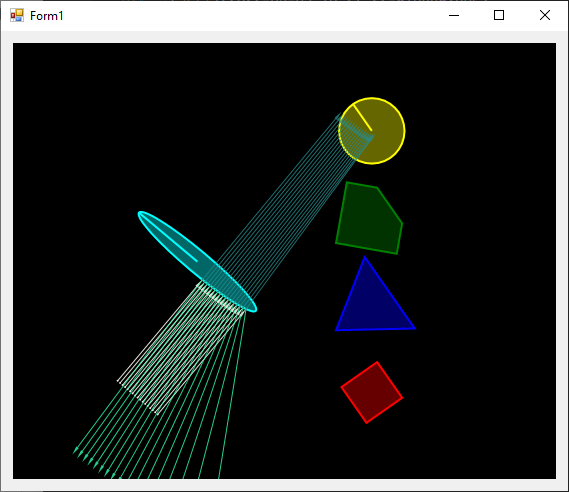
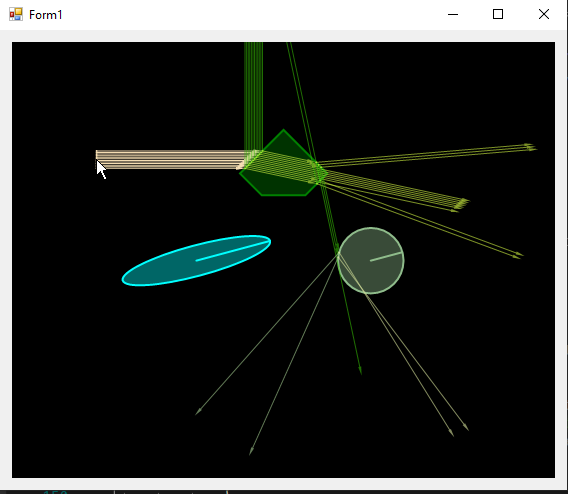
Concentrated beam demo

diff --git a/World/GraphicsScene.cs b/World/GraphicsScene.cs
@@ -142,7 +142,7 @@ namespace JA.World
             Vector2 dir = Vector2.Transform(Vector2.UnitX, Matrix3x2.CreateRotation(rayAngle));
             var cray = new Ray(mousePos, dir);
 
-            var beam = new ParallelRays(Color.Wheat, cray, 1, 1.2f);
+            var beam = new ParallelRays(Color.Wheat, cray, 12, 0.4f);
             //var beam = new RadialRays(Color.Wheat, cray, 72);
             var list = beam.GetGraphicsRays(ModelSize).ToList();
             int bounce = 0;
